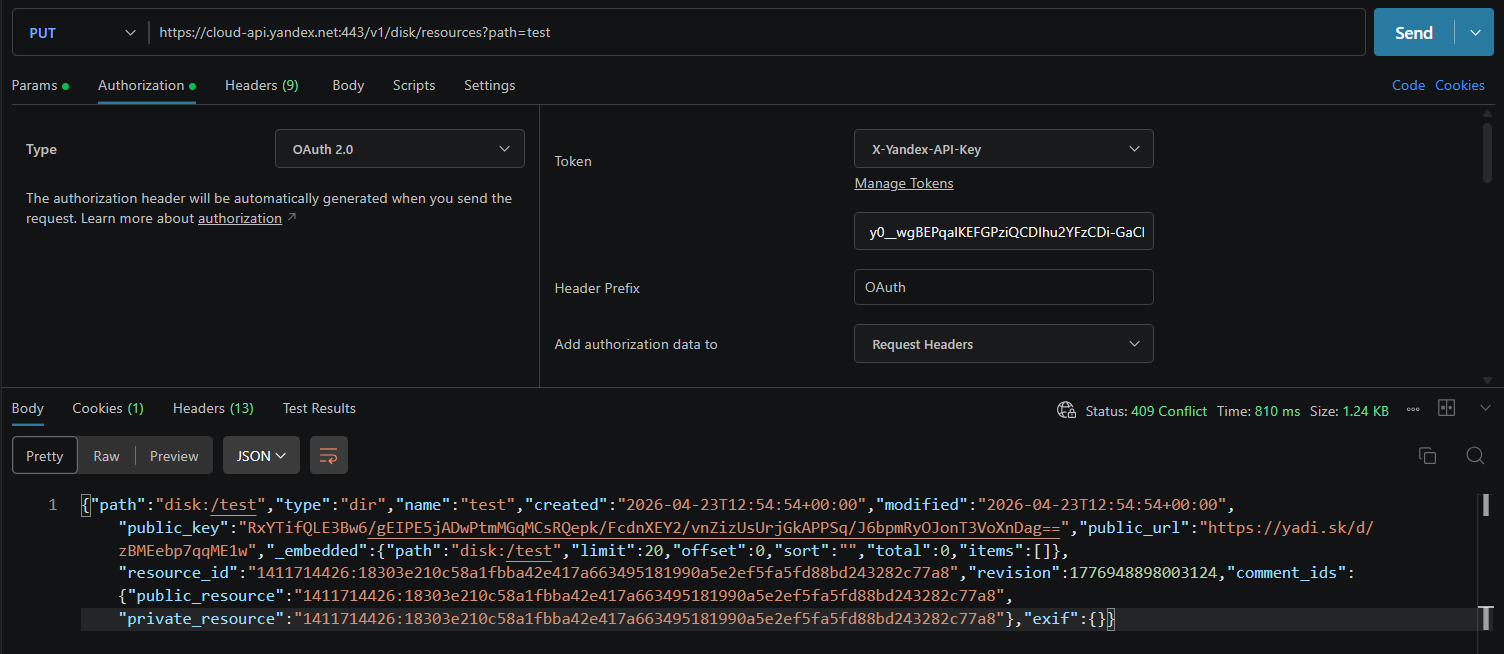
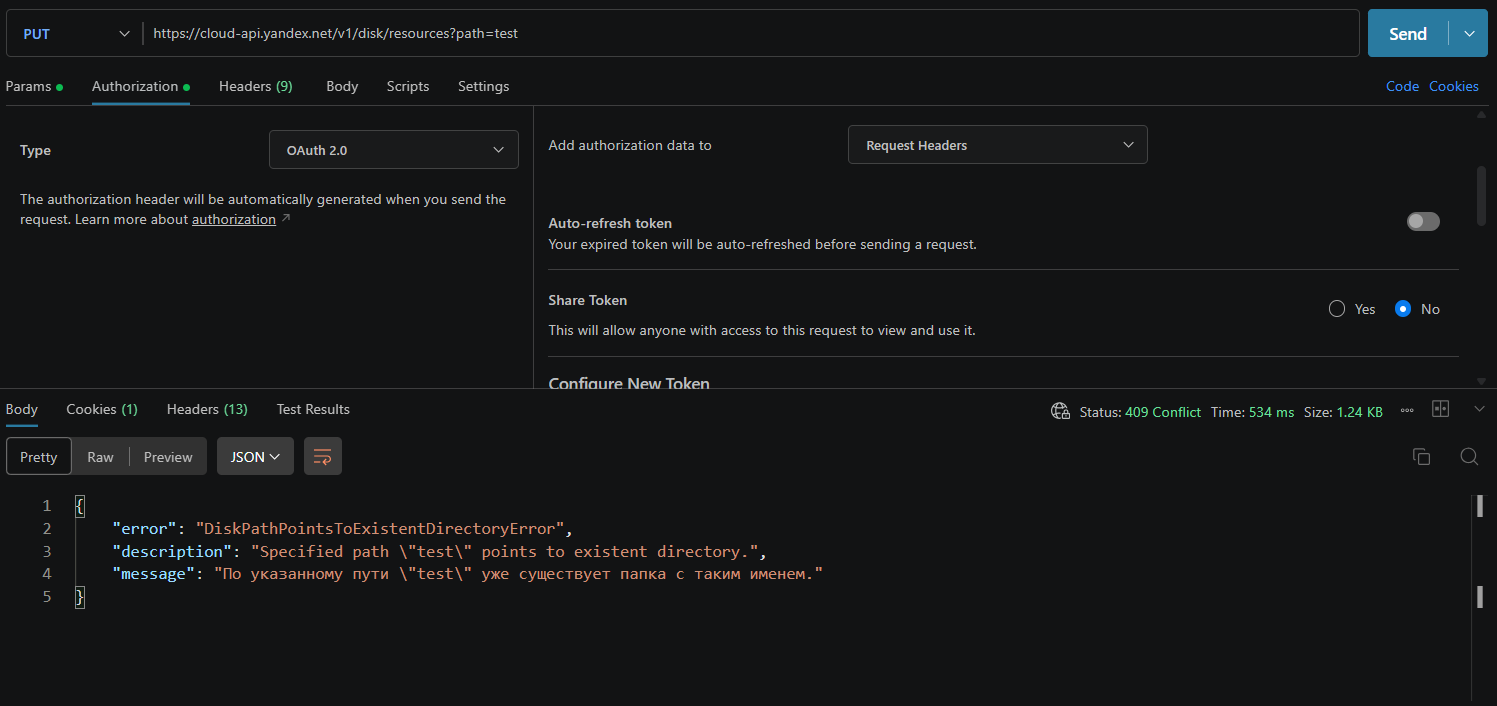
update corrections and bug-reports

diff --git a/corrections-ui.md b/corrections-ui.md
@@ -18,3 +18,9 @@
 - может результатом работы функции быть архив?
 - происходит ли поиск по содержимому в файле, если не был найден файл или папка, удовлетворяющие условию?
 - файл, находящийся в корзине, может быть найден тем же полем поиска на той же странице, где производится поиск существующих файлов на диске?
+- в требованиях указано, что поиск осуществляется по файлам и папкам, однако часть требований описывает поведение только для файлов;
+- не определено поведение для папок:
+    - могут ли папки, хранящиеся в корзине, находиться через поиск?
+    - как отображаются папки в результате поиска?
+    - отображаются ли папки в результатах поиска наравне с файлами?
+    - если есть папка и файл, содержащие одинаковое название, и этот файл хранится в папке, будет ли в результате поиска по имени файл отображаться отдельно от папки?

diff --git a/api-bug-report-2.md b/api-bug-report-2.md
@@ -5,12 +5,16 @@ Bug-Report-002. Создание новой папки
 Приоритет: Low;
 Предусловия:
 - Сформирован валидный OAuth токен;
-- На диске не существует папки "test";
+- На диске не существует папки "test1";
 Шаги:
-1. Отправить PUT запрос: https://cloud-api.yandex.net/v1/disk/resources?path=test;
+1. Отправить PUT запрос: https://cloud-api.yandex.net/v1/disk/resources?path=test1;
 Ожидаемый результат:
 - Получен http-код: 200;
+- Получено тело ответа json формата {"method":"string","href":"string","templated":true};
+- Папка была создана на диске.
 Фактический результат:
-- Получен http-код: 201 (Created).
+- Получен http-код: 201 (Created);
+- Получено тело ответа json формата {"method":"string","href":"string","templated":false};
+- Папка была создана на диске.
 Скриншот фактического результата:
 ![alt text](image-4.png)

diff --git a/corrections-api.md b/corrections-api.md
@@ -19,4 +19,7 @@
 - для PUT операций обычно используется ответ 201 (Created);
 - какие значения параметра fields допустимы?
 - что возвращается, если параметр fields не указан?
-- всле ли ошибки возвращают одинаковую структуру?
+- все ли ошибки возвращают одинаковую структуру json-ответа?
+- требования не содержат уникальных идентификаторов, что затрудняет трассируемость между требованиями, тест-кейсами и баг-репортами;
+- какое тело ответа возвращается при успешном запросе (200)?
+- неявно описано тело ответа для ошибок (не указано, для каких кодов оно возвращается).

diff --git a/api-bug-report-1.md b/api-bug-report-1.md
@@ -11,8 +11,12 @@ Bug-Report-001. Создание существующей папки
 Шаги:
 1. Отправить PUT запрос: https://cloud-api.yandex.net/v1/disk/resources?path=test;
 Ожидаемый результат:
-- Получен http-код: 401.
+- Получен http-код: 401;
+- Получено тело ответа json формата { "message": "string", "description": "string", "error": "string" };
+- Папка не была создана.
 Фактический результат:
-- Получен http-код: 409 (Conflict).
+- Получен http-код: 409 (Conflict);
+- Получено тело ответа json формата { "error": "string", "description": "string", "message": "string" };
+- Папка не была создана.
 Скриншот фактического результата:
 ![alt text](image-3.png)
